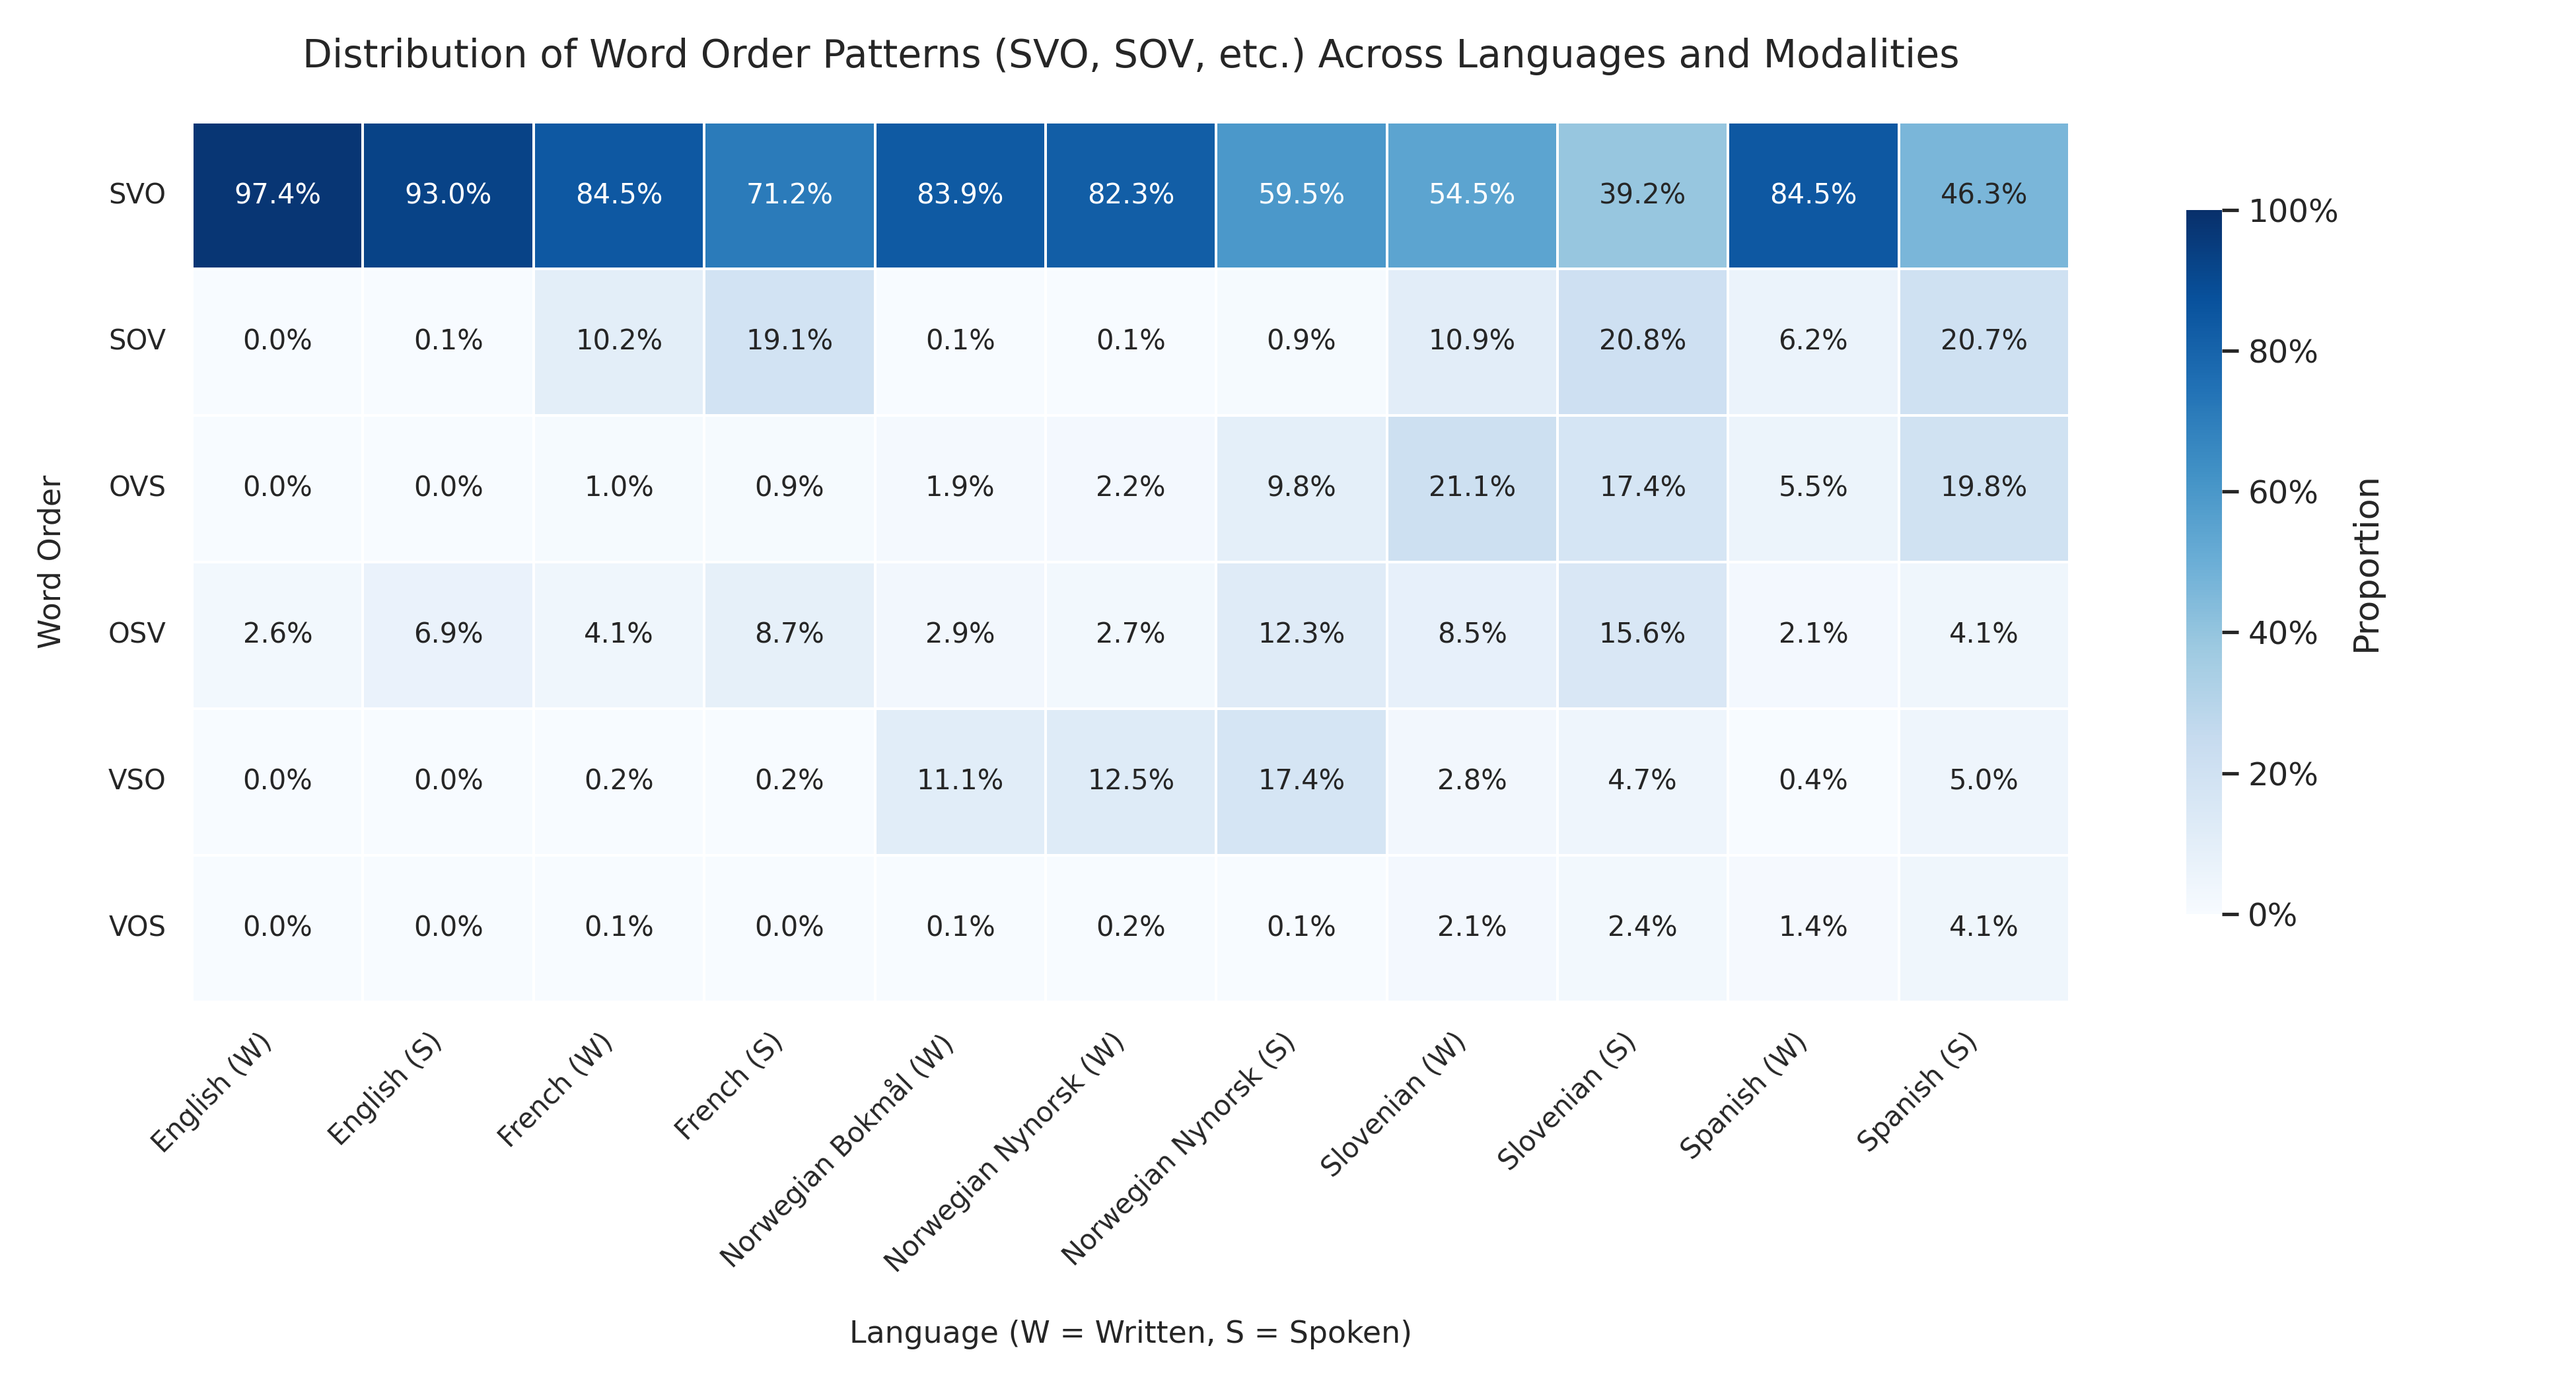
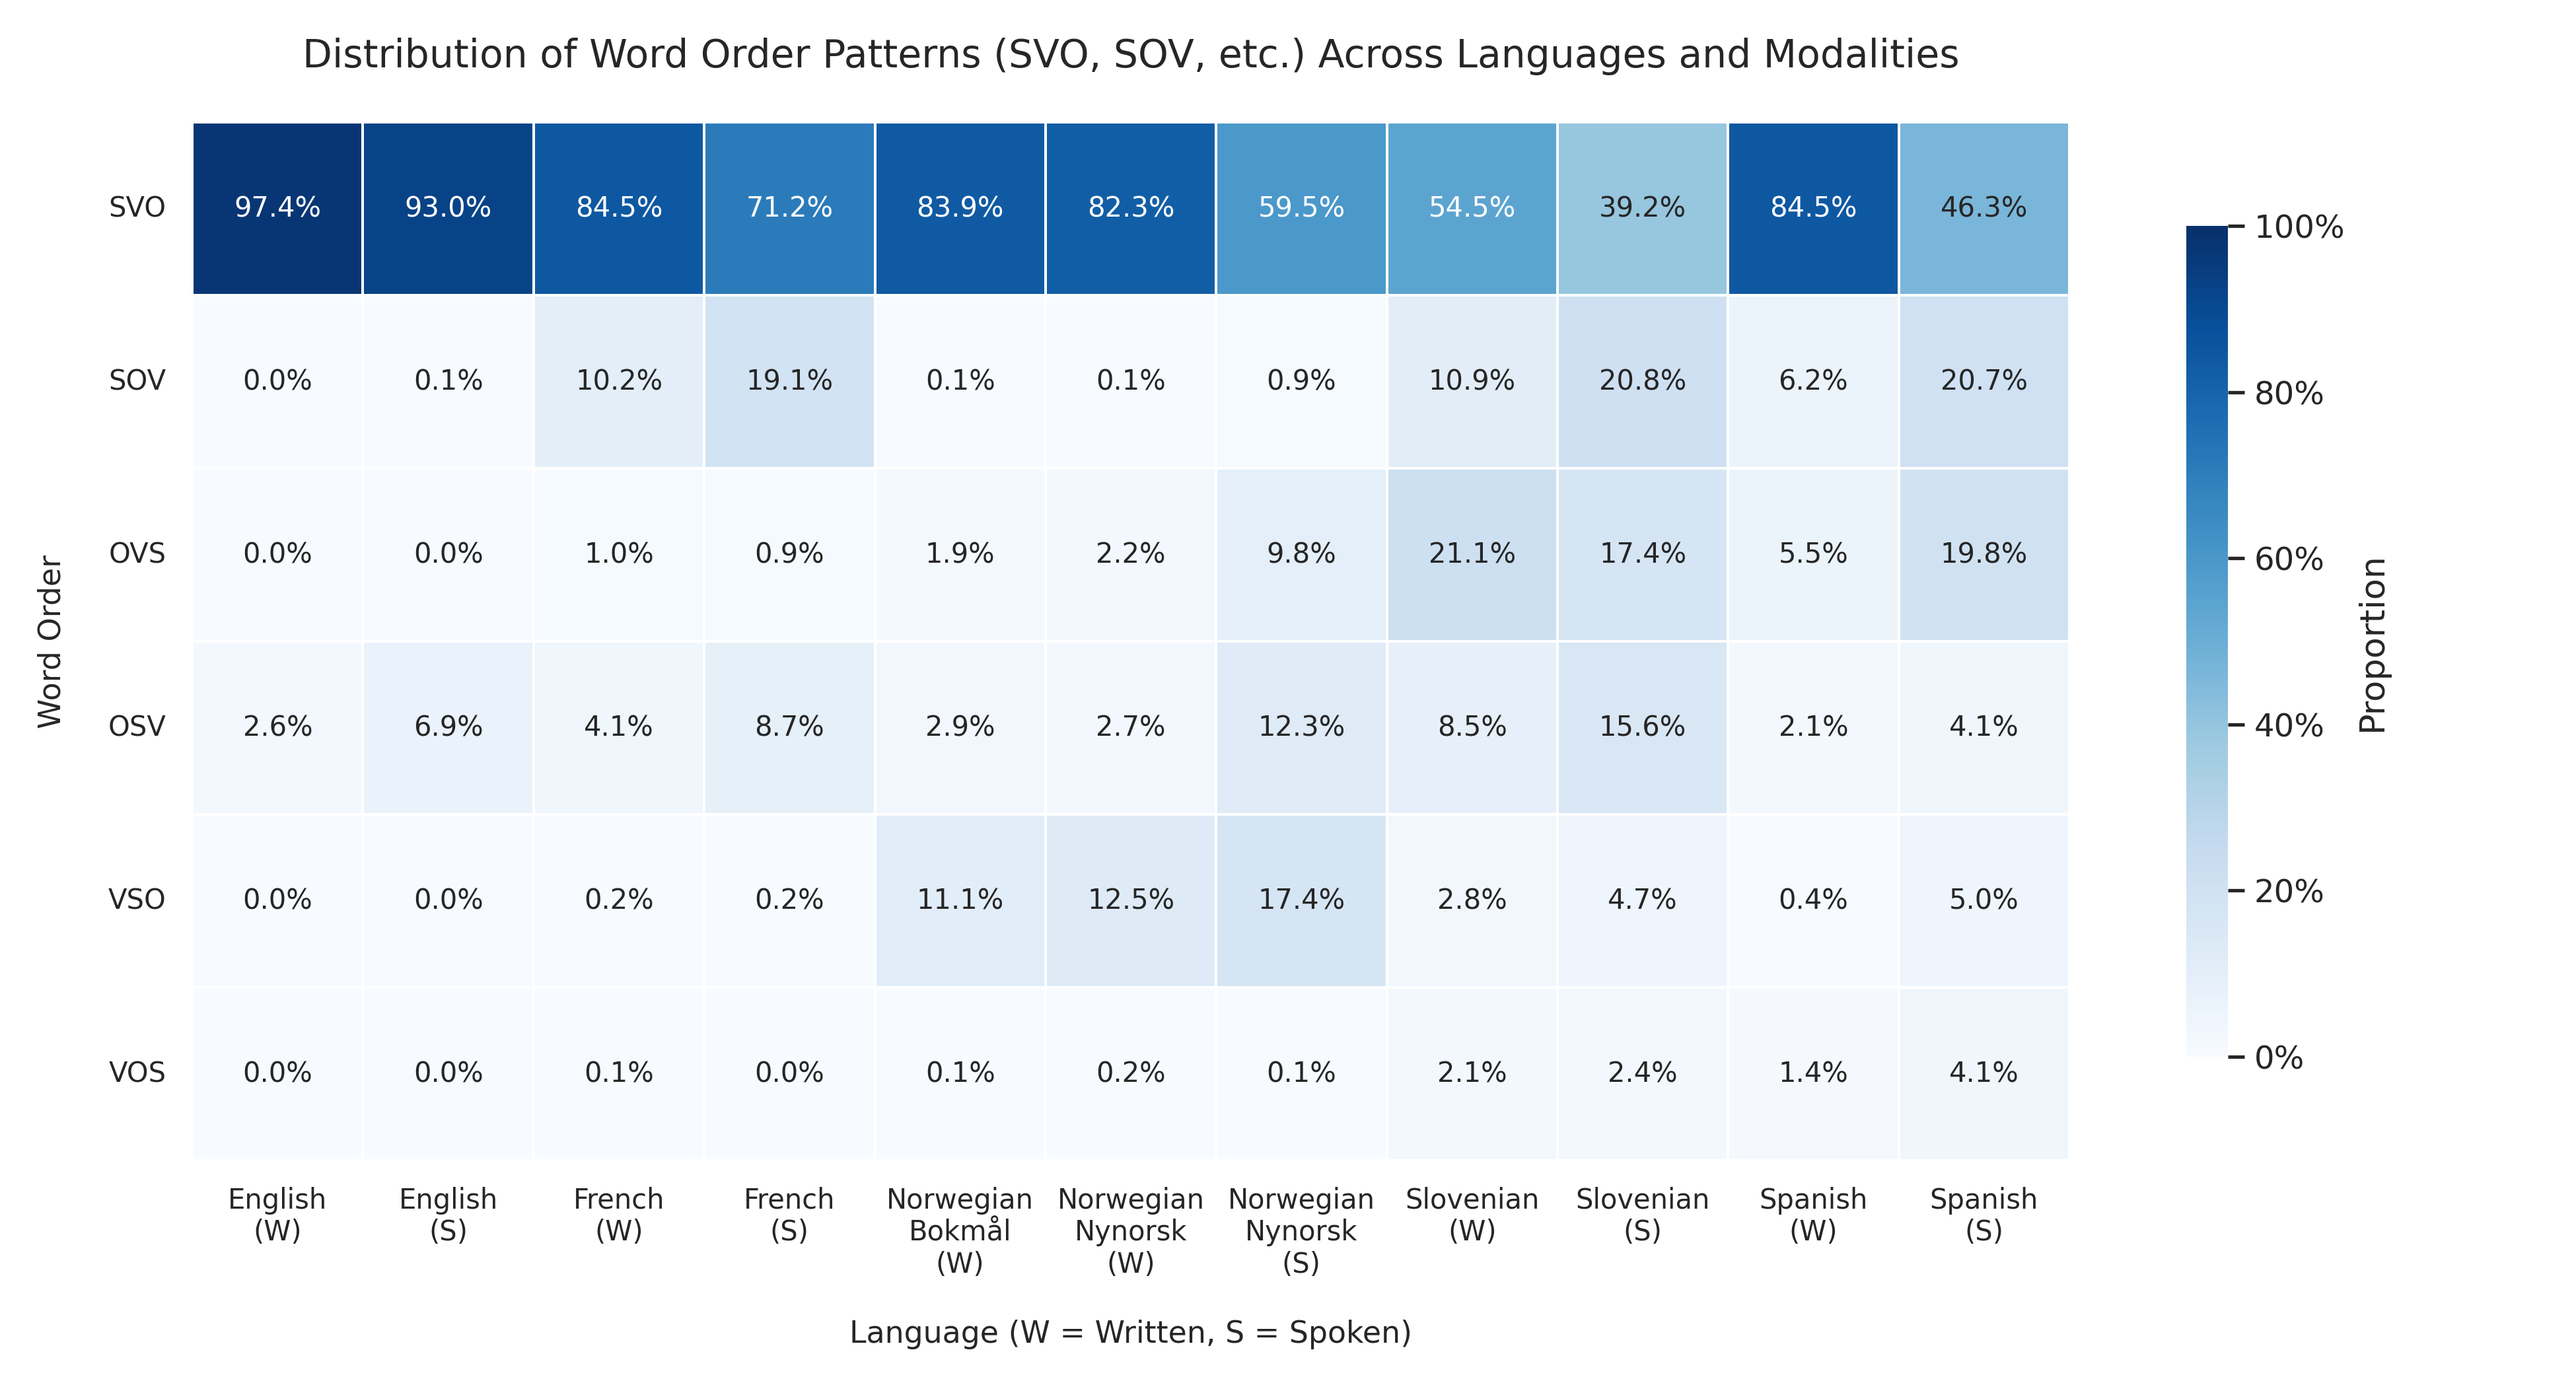
Heatmap colors language family

diff --git a/data/graphs/charts_2/hm2.py b/data/graphs/charts_2/hm2.py
@@ -1,8 +1,9 @@
 import pandas as pd
-import seaborn as sns
 import matplotlib.pyplot as plt
+import matplotlib.patches as mpatches
+from matplotlib.colors import LinearSegmentedColormap
 
-# === SVO DATA ===
+# === DATA ===
 svo_data = {
     "Word Order": ["SVO", "SOV", "OSV", "OVS", "VSO", "VOS"],
     "French Written": [0.8449, 0.1016, 0.0407, 0.0098, 0.0023, 0.0006],
@@ -18,7 +19,6 @@ svo_data = {
     "Norwegian Spoken (nynorsk)": [0.5948, 0.0093, 0.1235, 0.0975, 0.1736, 0.0013]
 }
 
-# === VO/OV DATA ===
 vo_data = {
     "Word Order": ["VO", "OV"],
     "English Written": [0.984394396, 0.015605604],
@@ -34,7 +34,6 @@ vo_data = {
     "Spanish Spoken": [0.620481928, 0.379518072]
 }
 
-# === Common settings ===
 column_order = [
     "English Written", "English Spoken",
     "French Written", "French Spoken",
@@ -43,63 +42,119 @@ column_order = [
     "Spanish Written", "Spanish Spoken"
 ]
 base_labels = [
-    "English (W)", "English (S)",
-    "French (W)", "French (S)",
-    "Norwegian Bokmål (W)", "Norwegian Nynorsk (W)", "Norwegian Nynorsk (S)",
-    "Slovenian (W)", "Slovenian (S)",
-    "Spanish (W)", "Spanish (S)"
+    "English\n(W)", "English\n(S)",
+    "French\n(W)", "French\n(S)",
+    "Norwegian\nBokmål\n(W)", "Norwegian\nNynorsk\n(W)", "Norwegian\nNynorsk\n(S)",
+    "Slovenian\n(W)", "Slovenian\n(S)",
+    "Spanish\n(W)", "Spanish\n(S)"
 ]
 
-def create_heatmap(df, title, filename):
+# === Language & Color Family Mapping ===
+def identify_language(col_name):
+    if "English" in col_name:
+        return "English"
+    elif "French" in col_name:
+        return "French"
+    elif "Norwegian" in col_name:
+        return "Norwegian"
+    elif "Slovenian" in col_name:
+        return "Slovenian"
+    elif "Spanish" in col_name:
+        return "Spanish"
+    return None
+
+language_family = {
+    "English": "Germanic",
+    "Norwegian": "Germanic",
+    "French": "Romance",
+    "Spanish": "Romance",
+    "Slovenian": "Slavic"
+}
+
+# Lighter colormaps
+family_cmaps = {
+    "Germanic": LinearSegmentedColormap.from_list("Germanic", ["#e1eff6", "#08306b"]),
+    "Romance":  LinearSegmentedColormap.from_list("Romance",  ["#fde5d0", "#b30000"]),
+    "Slavic":   LinearSegmentedColormap.from_list("Slavic",   ["#e3f2e1", "#005a32"])
+}
+
+# === Heatmap Function ===
+def create_custom_heatmap(df, title, filename):
     melted = df.melt(id_vars="Word Order", var_name="Language-Modality", value_name="Proportion")
     heatmap_data = melted.pivot(index="Word Order", columns="Language-Modality", values="Proportion")
     heatmap_data = heatmap_data[column_order]
-
     heatmap_data = heatmap_data.loc[heatmap_data.mean(axis=1).sort_values(ascending=False).index]
-    formatted_values = heatmap_data.applymap(lambda x: f"{x:.1%}")
 
-    plt.figure(figsize=(13, 7), facecolor='white')  # Back to original height
-    sns.set(style="white", font_scale=1.05)
+    fig, ax = plt.subplots(figsize=(13, 7), facecolor='white')
+    plt.subplots_adjust(top=0.72)  # Make space for title and legend
+    ax.set_frame_on(False)
+    nrows, ncols = heatmap_data.shape
 
-    ax = sns.heatmap(
-        heatmap_data,
-        annot=formatted_values,
-        fmt='',
-        cmap="Blues",
-        linewidths=0.5,
-        linecolor="white",
-        cbar_kws={"label": "Proportion", "shrink": 0.8},
-        annot_kws={"size": 10},
-        vmin=0,
-        vmax=1
+    def luminance(color):
+        r, g, b, _ = color
+        return 0.299 * r + 0.587 * g + 0.114 * b
+
+    for row in range(nrows):
+        for col in range(ncols):
+            value = heatmap_data.iloc[row, col]
+            col_name = heatmap_data.columns[col]
+            lang = identify_language(col_name)
+            fam = language_family.get(lang, None)
+            cmap = family_cmaps.get(fam, plt.get_cmap("Greys"))
+            color = cmap(value)
+            text_color = 'white' if luminance(color) < 0.5 else 'black'
+
+            rect = plt.Rectangle((col, row), 1, 1, facecolor=color, edgecolor="white", linewidth=0.5)
+            ax.add_patch(rect)
+            ax.text(col + 0.5, row + 0.5, f"{value:.1%}", ha="center", va="center", fontsize=10, color=text_color)
+
+    ax.set_xlim(0, ncols)
+    ax.set_ylim(0, nrows)
+    ax.invert_yaxis()
+
+    ax.set_xticks([i + 0.5 for i in range(ncols)])
+    ax.set_xticklabels(base_labels, fontsize=10, rotation=0)
+    ax.set_yticks([i + 0.5 for i in range(nrows)])
+    ax.set_yticklabels(heatmap_data.index.tolist(), fontsize=10)
+
+    ax.set_title(title, fontsize=14, pad=30)
+    ax.set_xlabel("Language (W = Written, S = Spoken)", fontsize=11, labelpad=15)
+    ax.set_ylabel("Word Order", fontsize=11, labelpad=15)
+
+    # === Legend below the title ===
+    legend_handles = [
+        mpatches.Patch(color=family_cmaps[family](1.0), label=family)
+        for family in family_cmaps
+    ]
+    fig.legend(
+        handles=legend_handles,
+        loc="upper center",
+        bbox_to_anchor=(0.5, 0.95),
+        ncol=3,
+        frameon=False
     )
 
-    ax.collections[0].colorbar.ax.yaxis.set_major_formatter(
-        plt.FuncFormatter(lambda x, _: f'{x:.0%}')
-    )
+    # Remove axis spines and ticks
+    for spine in ax.spines.values():
+        spine.set_visible(False)
+    ax.tick_params(top=False, bottom=False, left=False, right=False)
 
-    ax.set_xticklabels(base_labels, rotation=45, ha="right", fontsize=10)
-    plt.title(title, fontsize=14, pad=20)
-    plt.xlabel("Language (W = Written, S = Spoken)", labelpad=15, fontsize=11)
-    plt.ylabel("Word Order", labelpad=15, fontsize=11)
-    plt.yticks(rotation=0, fontsize=10)
     plt.tight_layout()
     plt.savefig(filename, dpi=300)
     plt.close()
-    print(f"{title} heatmap saved to {filename}!")
+    print(f"{title} custom heatmap saved to {filename}!")
 
-
-# Create both heatmaps
-create_heatmap(
+# === Generate Heatmaps ===
+create_custom_heatmap(
     pd.DataFrame(svo_data),
     "Distribution of Word Order Patterns (SVO, SOV, etc.) Across Languages and Modalities",
-    "data/graphs/charts_2/heatmap_svo.png"
+    "data/graphs/charts_2/custom_heatmap_svo.png"
 )
 
-create_heatmap(
+create_custom_heatmap(
     pd.DataFrame(vo_data),
     "Distribution of Verb–Object (VO) vs. Object–Verb (OV) Patterns Across Languages and Modalities",
-    "data/graphs/charts_2/heatmap_vo.png"
+    "data/graphs/charts_2/custom_heatmap_vo.png"
 )
 
-print("Both heatmaps saved!")
+print("Both custom heatmaps saved!")
